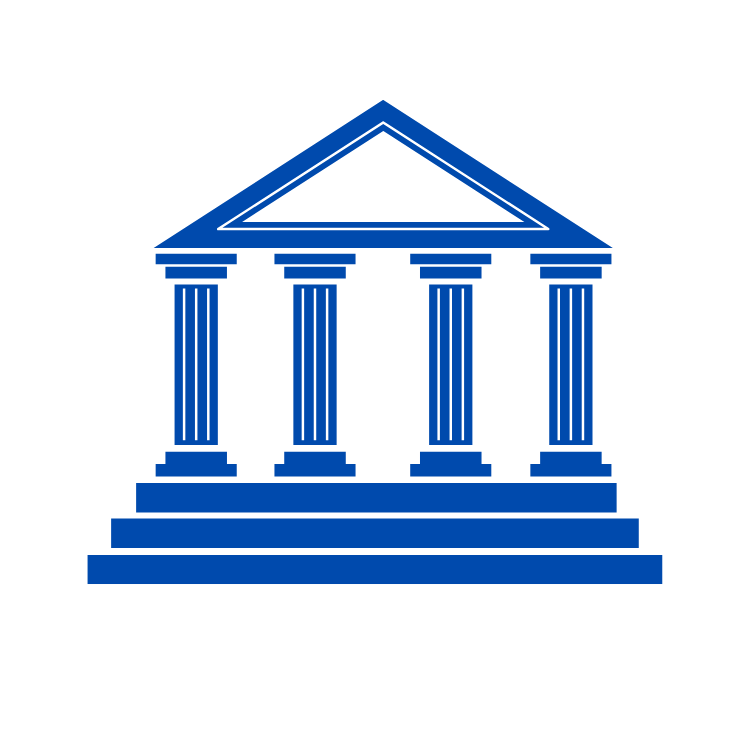
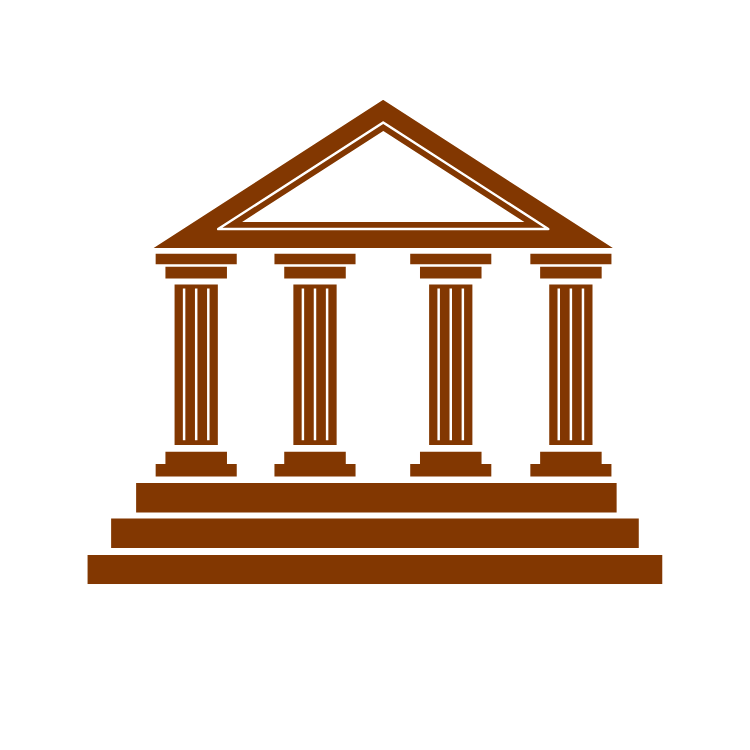
Updates without errors

Changed region(s): [[0.092, 0.1227, 0.8893, 0.7973]]

diff --git a/frontend/src/App.css b/frontend/src/App.css
@@ -7,8 +7,9 @@
 
 :root {
   --primary-font: "Inter", sans-serif;
-  --primary-color: rgb(4, 65, 199);
+  --primary-color: rgb(110, 52, 5);
 }
+
 
 a {
   text-decoration: none;
@@ -16,18 +17,18 @@ a {
 }
 .navbar-div {
   display: flex;
-  justify-content: space-around;
+  justify-content: center;
   align-items: center;
 }
 .logo {
   width: 4rem;
 }
-.header-div {
+.Header-div {
   display: flex;
   justify-content: center;
   align-items: center;
 }
-.header {
+.Header {
   font-family: var(--primary-font);
   font-size: 2rem;
   font-weight: 700;
@@ -51,6 +52,7 @@ a {
   justify-content: center;
   align-items: center;
   gap: 2rem;
+  margin-left: 30rem;
 }
 
 .big-home-div {
@@ -58,15 +60,15 @@ a {
   justify-content: space-between;
   align-items: center;
   padding: 0 3rem 0 3rem;
-  background: #000000;
-  background: -webkit-linear-gradient(to right, #0f0f0f, #e7893c, #000000);
-  background: linear-gradient(to right, #2b2b2b, #e7893c, #000000);
+  background-image: url("../public/Images/justice.png");
+  height: 100vh;
+  background-size: cover;
 }
 .welcome-note {
   font-family: var(--primary-font);
   font-size: 3rem;
-  color: white;
-  font-weight: 550;
+  color: rgb(82, 22, 4);
+  font-weight: 650;
   padding: 1rem;
 }
 p {
@@ -74,7 +76,7 @@ p {
 }
 
 .home-right-img {
-  width: 50%;
+  width: 80%;
 }
 .justicelogo {
   width: 10rem;
@@ -107,7 +109,7 @@ input {
 .signup-btn {
   padding: 0.5rem 1.2rem 0.5rem 1.2rem;
   border-radius: 0.2rem;
-  background-color: var(--primary-color);
+  background-color: rgb(0, 81, 255);
   color: white;
   border: none;
   -webkit-box-shadow: 10px 10px 51px 1px rgba(179, 179, 179, 1);
@@ -134,14 +136,7 @@ input {
   text-decoration: underline;
   margin-top: 2rem;
 }
-select {
-  padding: 0.3rem 1rem 0.3rem 1rem;
-  border: none;
-  margin-left: 1rem;
-}
-.option {
-  padding: 0.3rem 1rem 0.3rem 1rem;
-}
+
 .card {
   padding: 3rem;
   background: #ee0979;
@@ -263,4 +258,132 @@ select {
   gap: 3rem;
   background-color: rgb(0, 0, 126);
   padding: 4rem;
+}
+.footer-header{
+  font-family: var(--primary-font);
+  font-weight: 600;
+  text-align: center;
+  color: var(--primary-color);
+}
+.footer-div{
+  display: flex;
+  justify-content: center;
+  align-items: center;
+  flex-direction: column;
+  padding: 3rem;
+}
+.footer-logo{
+  display: flex;
+  justify-content: center;
+  align-items: center;
+}
+
+.policeadmin{
+  display: flex;
+  justify-content: center;
+  align-items: center;
+  gap: 1rem;
+}
+.credit-div{
+  padding: 0.5rem;
+  font-family: var(--primary-font);
+
+}
+.line{
+  display: block;
+  width: 1.5rem;
+  height: 0.2rem;
+  background-color: rgb(131, 70, 1);
+  margin: 0.3rem auto; 
+  
+}
+@media screen and (max-width:768px){
+  
+  .hamburger{
+      display: block;
+      cursor: pointer;
+  }
+  header.sticky a{
+    color: rgb(255, 255, 255);
+     
+  }
+  .menu-div{
+      position: fixed;
+      left: -100%;
+      width: 100%;
+      height: 100vh;
+      top: 0.1rem;
+      display: flex;
+      
+      justify-content: center;
+      align-items: center;
+      flex-direction: column;
+      transition: all 0.4s;
+      color: white;
+      -webkit-backdrop-filter: blur(8px);
+      backdrop-filter: blur(25px);
+      background-color:rgba(70, 34, 2, 0.993);
+      
+  }
+ 
+  .navbar-div{
+    display: flex;
+    justify-content: center;
+    align-items: center;
+    
+  }
+  .menu-div li{
+    padding: 0;
+  }
+  .menu-div.active{
+      left: 0;
+  }
+  .item{
+      margin: 2rem 0;
+  }
+  .hamburger.active .line:nth-child(2){
+  opacity: 0;
+  }
+  .hamburger.active .line:nth-child(1){
+      transform: translateY(8px) rotate(45deg);
+  }
+  .hamburger.active .line:nth-child(3){
+      transform: translateY(-8px) rotate(-45deg);
+  }
+
+
+  .navbar-div{
+    display: flex;
+    justify-content: center;
+    align-items: center;
+    gap: 2rem;
+  }
+  .signup-card{
+    width: 75%;
+  }
+  .dashboard-div{
+    display: flex;
+    justify-content: center;
+    align-items: center;
+    flex-direction: column;
+    
+  }
+  .card-all{
+    position: initial;
+  }
+    
+  .biggest-createprofile{
+    display: flex;
+    justify-content: center;
+    align-items: center;
+    flex-direction: column;
+  }
+  .big-createprofile{
+    width: 100%;
+    padding: 3rem;
+  }
+  .case-list-div{
+    width: 95%;
+  }
+  
 }

diff --git a/frontend/src/Components/Navbar.jsx b/frontend/src/Components/Navbar.jsx
@@ -21,26 +21,33 @@ const Navbar = () => {
   }, []);
 
   return (
+
     <div className="navbar-div">
-      <div className="header-div">
+      <div className="Header-div">
         <img src="/Images/DigiCourt.png" className="logo" alt="logo"></img>
-        <p className="header">DigiCourt</p>
+        <p className="Header">DigiCourt</p>
       </div>
       <div className="menu-div">
         <Link to="/">
-          <li>HOME</li>
+          <li className="item">HOME</li>
         </Link>
         {loggedIn ? (
           <div onClick={onLogoutClick}>
-            <li>LOGOUT</li>
+            <li className="item">LOGOUT</li>
           </div>
         ) : (
           <Link to="/login">
-            <li>LOGIN</li>
+            <li className="item">LOGIN</li>
           </Link>
         )}
       </div>
+      <div className="hamburger">
+              <span className="line"></span>
+              <span className="line"></span>
+              <span className="line"></span>
+            </div>
     </div>
+
   );
 };
 

diff --git a/frontend/src/index.js b/frontend/src/index.js
@@ -13,6 +13,30 @@ ReactDOM.render(
   </React.StrictMode>,
   document.getElementById("root")
 );
+window.addEventListener("scroll",function(){
+  var header = document.querySelector('header');
+  header.classList.toggle('sticky',window.scrollY > 0)
+})
+window.addEventListener("scroll",function(){
+  var links = document.querySelector('Link');
+  links.classList.toggle('sticky',window.scrollY > 0)
+})
+
+var hamburger = document.querySelector(".hamburger");
+var Menudiv = document.querySelector(".menu-div");
+
+hamburger.addEventListener("click",responsive);
+function responsive() {
+  hamburger.classList.toggle("active");
+  Menudiv.classList.toggle("active");
+}
+
+const link = document.querySelectorAll(".item");
+link.forEach(n => n.addEventListener("click",closeMenu));
+function closeMenu(){
+  hamburger.classList.remove("active");
+  Menudiv.classList.remove("active");
+}
 
 // If you want to start measuring performance in your app, pass a function
 // to log results (for example: reportWebVitals(console.log))

diff --git a/frontend/src/Components/Pages/Home.js b/frontend/src/Components/Pages/Home.js
@@ -1,22 +1,27 @@
 import React from "react";
+import { useEffect } from "react";
+import Aos from "aos";
+import "aos/dist/aos.css";
 
 const Home = () => {
+  useEffect(() => {
+    Aos.init({duration:2000})
+  })
   return (
     <>
-      <div className="big-home-div">
+      <div className="big-home-div" data-aos="fade-right">
         <div className="left-home">
           <img
             src="./Images/justicelogo.png"
             className="justicelogo"
             alt="justice"
+            data-aos="fade-left"
           ></img>
-          <div className="welcome-note">Welcome to DigiCourt!</div>
+          <div className="welcome-note" data-aos="fade-left">Welcome to DigiCourt!</div>
 
           <div></div>
         </div>
-        <div className="right-home"></div>
-        <img src="./Images/law.png" className="home-right-img" alt="law"></img>
-      </div>
+        </div>
     </>
   );
 };

diff --git a/frontend/src/Components/Login.jsx b/frontend/src/Components/Login.jsx
@@ -31,7 +31,7 @@ const Login = () => {
       <div className="big-signup-div">
         <div className="signup-card" data-aos="fade-down">
           <box-icon name="user-circle" type="filled" color="#0471d3"></box-icon>
-          <p className="signup-header">Login</p>
+          <p className="signup-header">User Login</p>
 
           <input
             value={username}
@@ -51,10 +51,14 @@ const Login = () => {
           <button onClick={onSignInClicked} className="signup-btn">
             LOGIN
           </button>
-
+            <div className="policeadmin">
           <Link to="/adminlogin" className="admin-login-text">
             ↗Admin Login
           </Link>
+          <Link to="/policelogin" className="admin-login-text">
+            ↗Police Login
+          </Link>
+          </div>
         </div>
       </div>
     </>

diff --git a/frontend/src/App.js b/frontend/src/App.js
@@ -8,6 +8,7 @@ import Login from "./Components/Login";
 import Navbar from "./Components/Navbar";
 import Adminlogin from "./Components/Adminlogin";
 import Dashboard from "./Components/Pages/Dashboard";
+import Footer from "./Components/Footer";
 
 const firebaseConfig = {
   apiKey: "AIzaSyAO-kgOwStk6cpclFC9WsctI2p26xqpYlw",
@@ -32,8 +33,9 @@ function App() {
 
           <Route path="/login" element={<Login />}></Route>
           <Route path="/adminlogin" element={<Adminlogin />}></Route>
-          <Route path="admin" element={<Dashboard />}></Route>
+          <Route path="/admin" element={<Dashboard />}></Route>
         </Routes>
+        <Footer />
       </BrowserRouter>
     </>
   );

diff --git a/frontend/src/Components/Footer.jsx b/frontend/src/Components/Footer.jsx
@@ -1,0 +1,17 @@
+import React from 'react'
+
+const Footer = () => {
+  return (
+    <div className='footer-div'>
+        <div className='footer-logo'>
+            <img src='./Images/DigiCourt.png' className="logo" alt='logo'></img>
+            <h1 className='footer-header'>DigiCourt</h1>
+        </div>
+        <div className='credit-div'>
+            <h3>Project Developed By <span>Piyush Bhangale</span> & <span>Abhishek Dhanke</span></h3>
+        </div>
+    </div>
+  )
+}
+
+export default Footer
